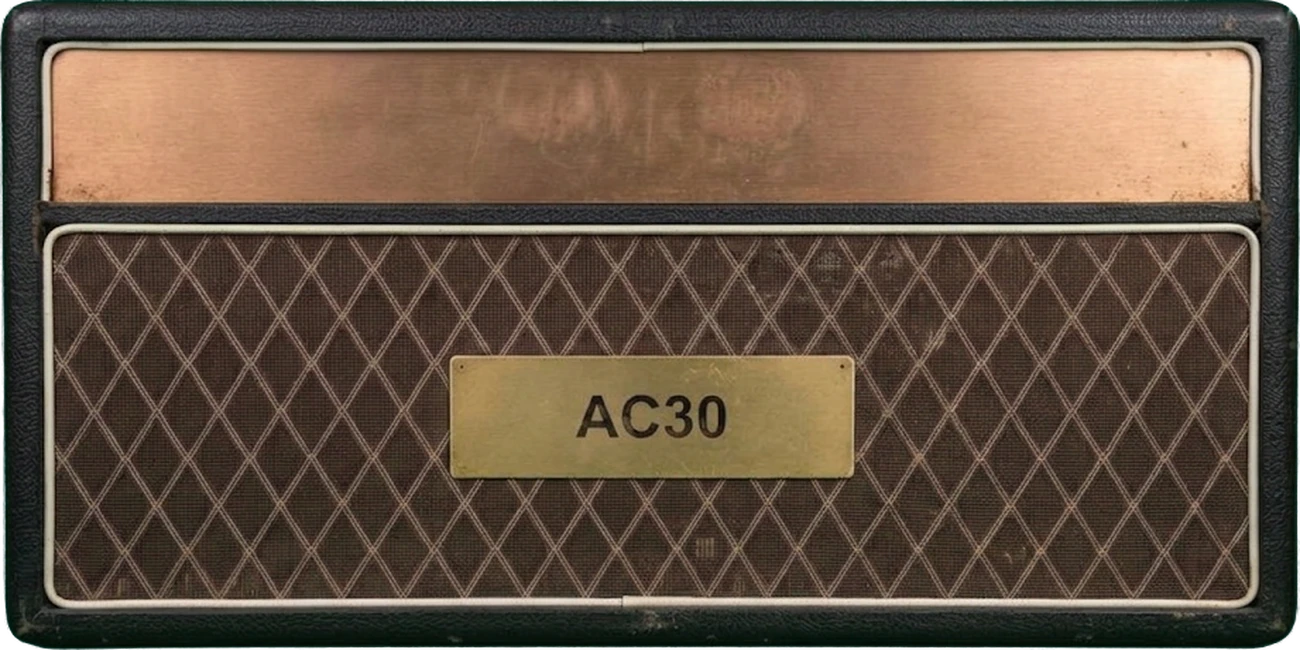
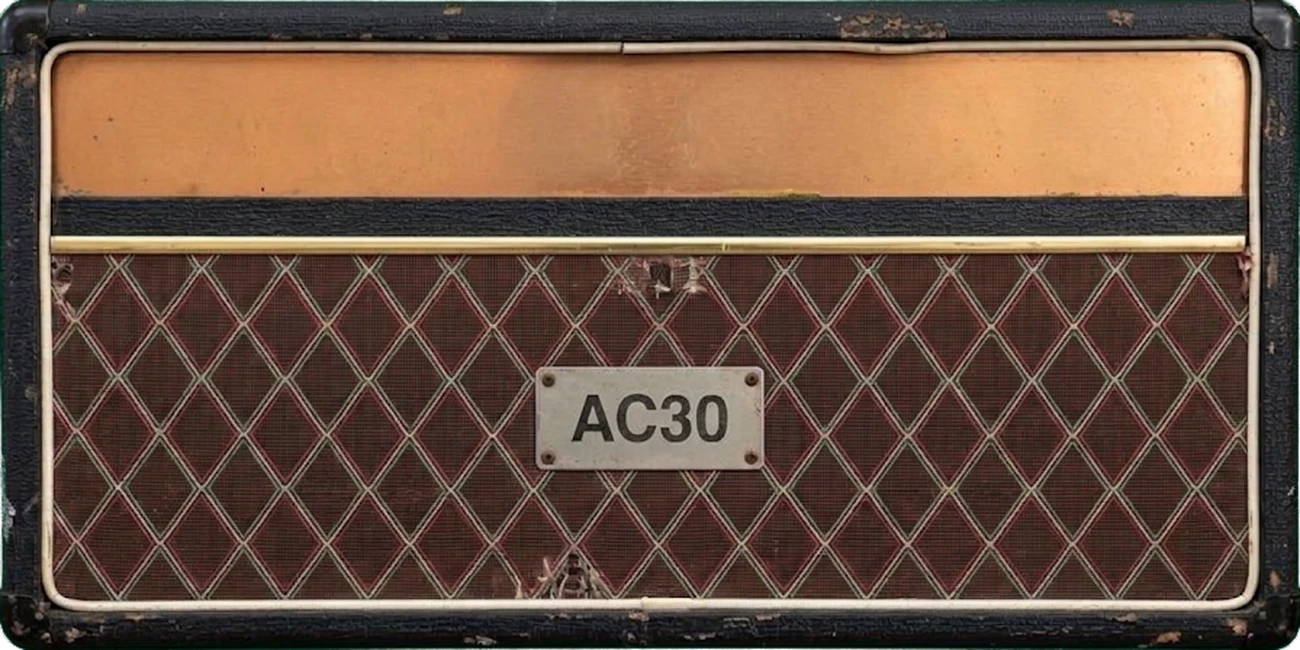
AC30: redo skin from a real AC30 reference; generic amp photo skins + tools/ampskin.py
Claude-Session: https://claude.ai/code/session_01CWvZQgQQYmGZwEkUDMEGhG

diff --git a/style.css b/style.css
@@ -1926,40 +1926,44 @@ input[type="range"]:focus-visible { outline: 2px solid var(--brass); outline-off
 /* HUD bar (board toolbar): every text in Arial. Kept last so it wins over earlier single-class font rules. */
 .board-toolbar, .board-toolbar * { font-family: Arial, Helvetica, sans-serif; }
 
-/* ---------- AC30 photo skin ----------
-   Gemini photo of a generic British 2x12 combo (no brand badge), knobless body + one knob
-   sprite turned by --knob-angle. Rows are nudged onto the photo's knob positions. */
-.amp-unit[data-amp-type="ac30"] {
-  background: url("img/ac30-body.webp") 0 0 / 100% 100% no-repeat;
+/* ---------- Amp photo skins ----------
+   An amp with `skin: { src, knob, label }` in amp-registry.js gets .amp-photo (renderAmp):
+   Gemini photo of a generic combo (no brand badge) as a knobless body + one knob sprite
+   turned by --knob-angle. tools/ampskin.py writes each amp's knob nudges below. */
+.amp-unit.amp-photo {
+  background: var(--amp-body) 0 0 / 100% 100% no-repeat;
   border: 0; border-radius: 0; box-shadow: none;
   filter: drop-shadow(0 12px 14px rgba(0, 0, 0, 0.6));
 }
-.amp-unit[data-amp-type="ac30"]::before,
-.amp-unit[data-amp-type="ac30"]::after,
-.amp-unit[data-amp-type="ac30"] .amp-corner,
-.amp-unit[data-amp-type="ac30"] .amp-handle,
-.amp-unit[data-amp-type="ac30"] .amp-power-switch,
-.amp-unit[data-amp-type="ac30"] .amp-control-panel::before,
-.amp-unit[data-amp-type="ac30"] .amp-control-panel::after,
-.amp-unit[data-amp-type="ac30"] .amp-grille::before,
-.amp-unit[data-amp-type="ac30"] .amp-grille::after,
-.amp-unit[data-amp-type="ac30"] .knob-ticks,
-.amp-unit[data-amp-type="ac30"] .knob-pointer,
-.amp-unit[data-amp-type="ac30"] .knob-dial::before,
-.amp-unit[data-amp-type="ac30"] .knob-dial::after { display: none; }
-.amp-unit[data-amp-type="ac30"] .amp-control-panel,
-.amp-unit[data-amp-type="ac30"] .amp-grille { background: none; border: 0; box-shadow: none; }
-.amp-unit[data-amp-type="ac30"] .amp-plate { visibility: hidden; }
-.amp-unit[data-amp-type="ac30"] .knob-dial-wrap { translate: 0 4px; }
-.amp-unit[data-amp-type="ac30"] .knob-dial {
+.amp-unit.amp-photo::before,
+.amp-unit.amp-photo::after,
+.amp-photo .amp-corner,
+.amp-photo .amp-handle,
+.amp-photo .amp-power-switch,
+.amp-photo .amp-control-panel::before,
+.amp-photo .amp-control-panel::after,
+.amp-photo .amp-grille::before,
+.amp-photo .amp-grille::after,
+.amp-photo .knob-ticks,
+.amp-photo .knob-pointer,
+.amp-photo .knob-dial::before,
+.amp-photo .knob-dial::after { display: none; }
+.amp-photo .amp-control-panel,
+.amp-photo .amp-grille { background: none; border: 0; box-shadow: none; }
+.amp-photo .amp-plate { visibility: hidden; }
+.amp-photo .knob-dial {
   width: 100%; height: 100%; border: 0; border-radius: 50%; box-shadow: none;
-  background: url("img/ac30-knob.webp") center / 100% 100% no-repeat;
+  background: var(--amp-knob) center / 100% 100% no-repeat;
   transform: rotate(var(--knob-angle));
 }
-.amp-unit[data-amp-type="ac30"] .knob-row > label { color: oklch(24% 0.04 40); font-weight: 700; text-shadow: 0 1px 0 rgba(255, 220, 180, 0.35); }
-.amp-unit[data-amp-type="ac30"] .knob-row .knob-value { background: rgba(0, 0, 0, 0.55); border-radius: 3px; padding: 0 4px; border-bottom: 0; text-shadow: none; }
-.amp-unit[data-amp-type="ac30"] .knob-row:nth-child(1) { translate: 11.5px 0; }
-.amp-unit[data-amp-type="ac30"] .knob-row:nth-child(2) { translate: 6.5px 0; }
-.amp-unit[data-amp-type="ac30"] .knob-row:nth-child(4) { translate: -6.5px 0; }
-.amp-unit[data-amp-type="ac30"] .knob-row:nth-child(5) { translate: -13px 0; }
-.amp-unit[data-amp-type="ac30"] .knob-row:nth-child(6) { translate: -18px 0; }
+.amp-photo .knob-row > label { color: var(--amp-label, oklch(24% 0.04 40)); font-weight: 700; }
+.amp-photo .knob-row .knob-value { background: rgba(0, 0, 0, 0.55); border-radius: 3px; padding: 0 4px; border-bottom: 0; text-shadow: none; color: #fff; }
+/* ampskin:begin */
+.amp-photo[data-amp-type="ac30"] .knob-dial-wrap { scale: 1.508; }
+.amp-photo[data-amp-type="ac30"] .knob-row:nth-child(1) { translate: 17.5px 28.0px; }
+.amp-photo[data-amp-type="ac30"] .knob-row:nth-child(2) { translate: 11.0px 26.0px; }
+.amp-photo[data-amp-type="ac30"] .knob-row:nth-child(3) { translate: 2.0px 29.0px; }
+.amp-photo[data-amp-type="ac30"] .knob-row:nth-child(4) { translate: -6.5px 28.5px; }
+.amp-photo[data-amp-type="ac30"] .knob-row:nth-child(5) { translate: -13.0px 25.5px; }
+.amp-photo[data-amp-type="ac30"] .knob-row:nth-child(6) { translate: -20.0px 26.0px; }
+/* ampskin:end */

diff --git a/js/ui.js b/js/ui.js
@@ -1,5 +1,5 @@
-import { PEDAL_TYPES, CATEGORIES } from './pedal-registry.js?v=142';
-import { AMP_TYPES } from './amp-registry.js?v=146';
+import { PEDAL_TYPES, CATEGORIES } from './pedal-registry.js?v=143';
+import { AMP_TYPES } from './amp-registry.js?v=147';
 
 function stepFor(param) {
   if (param.step !== undefined) return param.step;
@@ -446,6 +446,13 @@ export function renderAmp(engine, container, template, callbacks, ampLogos = {})
   if (inst.typeDef.accent) unit.style.setProperty('--pedal-accent', inst.typeDef.accent);
   if (inst.typeDef.trim) unit.style.setProperty('--pedal-trim', inst.typeDef.trim);
   if (!inst.enabled) unit.classList.add('disabled-pedal');
+  const skin = inst.typeDef.skin; // photo amp (see "Amp photo skins" in style.css)
+  if (skin && !isGuitar) {
+    unit.classList.add('amp-photo');
+    unit.style.setProperty('--amp-body', `url("${skin.src}")`);
+    unit.style.setProperty('--amp-knob', `url("${skin.knob}")`);
+    if (skin.label) unit.style.setProperty('--amp-label', skin.label);
+  }
 
   const labelEl = unit.querySelector('.pedal-label');
   labelEl.textContent = inst.typeDef.label;

diff --git a/js/amp-registry.js b/js/amp-registry.js
@@ -1,5 +1,5 @@
 import { generateCabIR, generateAcousticBodyIR } from './ir-synth.js?v=4';
-import { driveCurve } from './pedal-registry.js?v=142';
+import { driveCurve } from './pedal-registry.js?v=143';
 
 function makeBand(ctx, band) {
   const f = ctx.createBiquadFilter();
@@ -198,6 +198,7 @@ export const AMP_TYPES = [
   },
   {
     id: 'ac30', label: 'AC30', group: 'standard', color: 'oklch(35% 0.04 40)',
+    skin: { src: 'img/ac30-body.webp', knob: 'img/ac30-knob.webp' },
     blurb: 'Chimey British combo: jangly cleans that slide smoothly into a gritty breakup.',
     about: 'A British combo in the AC30 Top Boost mould: no mid control, no negative feedback, and a cathode-biased class AB output stage, so it chimes in the upper mids, runs light in the lows, and breaks up early and gradually with a slightly asymmetric clip.',
     createNodes: (ctx) => createAmpNodes(ctx, {

diff --git a/test-layout.html b/test-layout.html
@@ -15,9 +15,9 @@
     const w = frame.contentWindow;
     const ampId = location.search.includes('acoustic') ? 'acoustic' : 'clean';
     await w.eval(`(async () => {
-      const ui = await import('/js/ui.js?v=148');
-      const pr = await import('/js/pedal-registry.js?v=142');
-      const ar = await import('/js/amp-registry.js?v=146');
+      const ui = await import('/js/ui.js?v=149');
+      const pr = await import('/js/pedal-registry.js?v=143');
+      const ar = await import('/js/amp-registry.js?v=147');
       const mk = (id, getter, kind) => {
         const typeDef = getter(id);
         const params = {}; typeDef.params.forEach((p) => { params[p.key] = p.default; });

diff --git a/js/main.js b/js/main.js
@@ -1,5 +1,5 @@
-import { AudioEngine } from './audio-engine.js?v=158';
-import { renderChain, renderAmp, showAddMenu, showDemoMenu, showSavePresetPopover, showPresetMenu, showInfoPopover, drawScope, drawWaveform, drawStaticWave } from './ui.js?v=148';
+import { AudioEngine } from './audio-engine.js?v=159';
+import { renderChain, renderAmp, showAddMenu, showDemoMenu, showSavePresetPopover, showPresetMenu, showInfoPopover, drawScope, drawWaveform, drawStaticWave } from './ui.js?v=149';
 import { renderPreviewWaveform } from './wave-preview.js';
 import { DEMO_PRESETS } from './demo-presets.js?v=2';
 import { Tuner, GUITAR_STRINGS, centsFromTarget } from './tuner.js?v=3';

diff --git a/index.html b/index.html
@@ -4,7 +4,7 @@
 <meta charset="utf-8">
 <title>Guitar FX Pedalboard</title>
 <meta name="viewport" content="width=device-width, initial-scale=1">
-<link rel="stylesheet" href="style.css?v=180">
+<link rel="stylesheet" href="style.css?v=181">
 <script>
   (function () {
     var root = document.documentElement;
@@ -550,6 +550,6 @@
   </div>
 </template>
 
-<script type="module" src="js/main.js?v=184"></script>
+<script type="module" src="js/main.js?v=185"></script>
 </body>
 </html>

diff --git a/js/audio-engine.js b/js/audio-engine.js
@@ -1,5 +1,5 @@
-import { getPedalType } from './pedal-registry.js?v=142';
-import { getAmpType } from './amp-registry.js?v=146';
+import { getPedalType } from './pedal-registry.js?v=143';
+import { getAmpType } from './amp-registry.js?v=147';
 
 // Keep in sync with WORKLET_MODULES in wave-preview.js (same URLs, so both share one HTTP cache entry).
 const WORKLET_URLS = [

diff --git a/tools/ampskin.py b/tools/ampskin.py
@@ -1,0 +1,54 @@
+# Turn Gemini's amp images into a photo skin: knobless body + one knob sprite.
+# usage: python -I tools/ampskin.py <id> <full.png> <body.png> <knob.png> [label colour]
+#   writes img/<id>-body.webp (1300x650, the amp slot's footprint) and img/<id>-knob.webp,
+#   sets the registry skin, and writes this amp's knob nudges into style.css (ampskin block).
+#   Knobs are found where the full image differs from the knobless body.
+import re, sys, numpy as np
+from PIL import Image
+sys.path.insert(0, 'tools')
+src = open('tools/split.py', encoding='utf8').read()
+ns = {}; exec(src[src.index('import re'):src.index('TH =')], ns); key = ns['key']
+
+W, H = 1300, 650
+APP_X = [165 + 194 * i for i in range(6)]; APP_Y = 99   # live knob centres in the unit (renderAmp layout)
+
+def knobs(full, body):
+    d = np.abs(full[..., :3] - body[..., :3]).sum(-1) > 150   # only strong changes: knobs, not Gemini's slight repaint
+    d[int(H * .4):] = 0                                   # knobs live in the top strip
+    cols = np.where(d.sum(0) > 8)[0]
+    groups = [g for g in np.split(cols, np.where(np.diff(cols) > 8)[0] + 1) if len(g) > 15]
+    out = []
+    for g in groups:
+        ys = np.where(d[:, g[0]:g[-1] + 1].sum(1) > 4)[0]
+        out.append(((g[0] + g[-1]) / 2, (ys[0] + ys[-1]) / 2, max(len(g), ys[-1] - ys[0] + 1)))   # pointer knobs: the long axis sets the sprite size
+    return out
+
+if __name__ == '__main__':
+    pid, fullf, bodyf, knobf = sys.argv[1:5]; label = sys.argv[5] if len(sys.argv) > 5 else None
+    B = key(Image.open(bodyf)); al = B[..., 3] > 128
+    rows = np.where(al.sum(1) > .3 * al.sum(1).max())[0]; cols = np.where(al.sum(0) > .3 * al.sum(0).max())[0]
+    box = (cols[0], rows[0], cols[-1] + 1, rows[-1] + 1)
+    body = Image.fromarray(B.astype('uint8')).crop(box).resize((W, H), Image.LANCZOS)
+    full = Image.fromarray(key(Image.open(fullf)).astype('uint8')).resize(Image.open(bodyf).size).crop(box).resize((W, H), Image.LANCZOS)
+    body.save('img/%s-body.webp' % pid, quality=90)
+    ks = knobs(np.array(full).astype(float), np.array(body).astype(float))
+    assert len(ks) == 6, ks
+    K = key(Image.open(knobf)); m = K[..., 3] > 128; ys, xs = np.where(m)
+    cx, cy = (xs.min() + xs.max()) / 2, (ys.min() + ys.max()) / 2; r = max(xs.max() - xs.min(), ys.max() - ys.min()) / 2 + 2
+    yy, xx = np.mgrid[0:m.shape[0], 0:m.shape[1]]
+    K[..., 3] = np.minimum(K[..., 3], np.clip(r - np.hypot(xx - cx, yy - cy), 0, 1) * 255)
+    Image.fromarray(K.astype('uint8')).crop((round(cx - r), round(cy - r), round(cx + r), round(cy + r))).resize((176, 176), Image.LANCZOS).save('img/%s-knob.webp' % pid, quality=94)
+    kd = np.median([k[2] for k in ks])
+    sel = '.amp-photo[data-amp-type="%s"]' % pid
+    css = ['%s .knob-dial-wrap { scale: %.3f; }' % (sel, kd / 62)]   # scale, not zoom: keeps the label/slider layout put
+    css += ['%s .knob-row:nth-child(%d) { translate: %.1fpx %.1fpx; }' % (sel, i + 1, k[0] - APP_X[i], k[1] - APP_Y) for i, k in enumerate(ks)]
+    s = open('style.css', encoding='utf8').read()
+    s = re.sub(r'\n%s[^\n]*' % re.escape(sel), '', s)
+    s = s.replace('/* ampskin:end */', '\n'.join(css) + '\n/* ampskin:end */')
+    open('style.css', 'w', encoding='utf8', newline='').write(s)
+    reg = open('js/amp-registry.js', encoding='utf8').read()
+    skin = "skin: { src: 'img/%s-body.webp', knob: 'img/%s-knob.webp'%s }," % (pid, pid, ", label: '%s'" % label if label else '')
+    m = re.search(r"(    id: '%s',[^\n]*\n)((?:    skin: [^\n]*\n)?)" % pid, reg)
+    reg = reg[:m.start()] + m.group(1) + '    ' + skin + '\n' + reg[m.end():]
+    open('js/amp-registry.js', 'w', encoding='utf8', newline='').write(reg)
+    print(pid, 'knobs', [(round(x), round(y), w) for x, y, w in ks], 'kd', kd)
